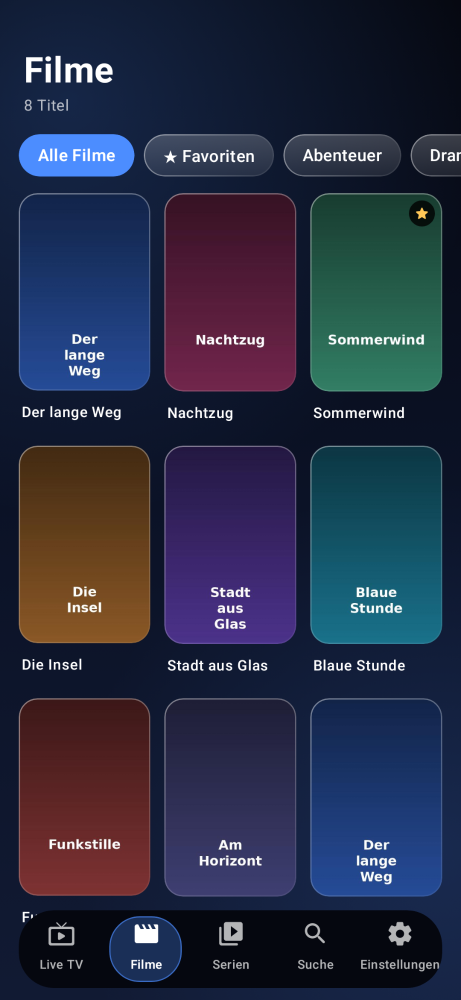
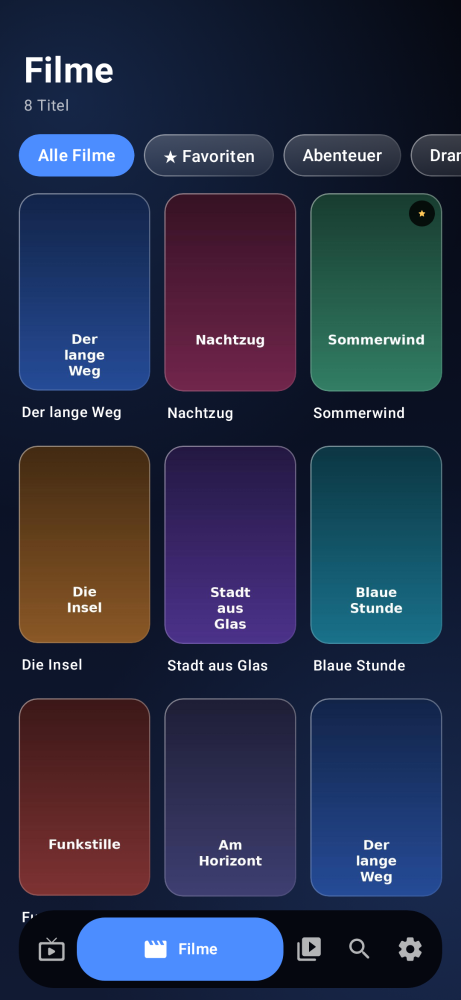
Version 1.0.34: Codeprüfung, kleine Korrekturen, aktuelle Hilfebilder

Changed region(s): [[0.0607, 0.899, 0.7289, 0.992], [0.7896, 0.899, 0.9414, 0.992], [0.7592, 0.93, 0.7896, 0.961]]

diff --git a/mobile/src/main/java/de/dgstudios/iptvstream/MobileApp.kt b/mobile/src/main/java/de/dgstudios/iptvstream/MobileApp.kt
@@ -56,6 +56,7 @@ import androidx.compose.runtime.LaunchedEffect
 import androidx.compose.runtime.getValue
 import androidx.compose.runtime.mutableStateOf
 import androidx.compose.runtime.remember
+import androidx.compose.runtime.rememberUpdatedState
 import androidx.compose.runtime.saveable.rememberSaveable
 import androidx.compose.runtime.setValue
 import androidx.compose.ui.Alignment
@@ -68,6 +69,7 @@ import androidx.compose.ui.input.nestedscroll.NestedScrollConnection
 import androidx.compose.ui.input.nestedscroll.NestedScrollSource
 import androidx.compose.ui.input.nestedscroll.nestedScroll
 import androidx.compose.ui.platform.LocalContext
+import androidx.compose.ui.platform.LocalDensity
 import androidx.compose.ui.text.font.FontWeight
 import androidx.compose.ui.text.style.TextOverflow
 import androidx.compose.ui.unit.Dp
@@ -341,13 +343,28 @@ internal fun BottomBar(selected: Tab, onSelect: (Tab) -> Unit) {
             .coerceAtMost(content - minIcon * (tabs.size - 1))
             .coerceAtLeast(112.dp)
         val iconSlot = (content - capsuleW) / (tabs.size - 1)
+        // Die Kapsel ist breiter als die übrigen Punkte. Der Wisch rechnet mit den
+        // echten Breiten, sonst landet der Finger auf dem Nachbarpunkt.
+        val density = LocalDensity.current
+        val targetRef = rememberUpdatedState(target)
+        val capsulePx = with(density) { capsuleW.toPx() }
+        val iconPx = with(density) { iconSlot.toPx() }
+        val edgePx = with(density) { 6.dp.toPx() }
         Box(
             Modifier
                 .fillMaxSize()
                 .clip(shape)
                 .background(s.backgroundColors[0], shape)
                 .pointerInput(tabs.size) {
-                    fun indexAt(x: Float) = (x / (size.width.toFloat() / tabs.size)).toInt().coerceIn(0, tabs.size - 1)
+                    fun indexAt(x: Float): Int {
+                        var edge = edgePx
+                        val current = targetRef.value
+                        for (i in tabs.indices) {
+                            edge += if (i == current) capsulePx else iconPx
+                            if (x < edge) return i
+                        }
+                        return tabs.lastIndex
+                    }
                     detectHorizontalDragGestures(
                         onDragStart = { pos ->
                             hover = indexAt(pos.x)

diff --git a/mobile/src/main/java/de/dgstudios/iptvstream/DetailScreens.kt b/mobile/src/main/java/de/dgstudios/iptvstream/DetailScreens.kt
@@ -76,7 +76,7 @@ fun GlassIconButton(icon: ImageVector, desc: String, onClick: () -> Unit, tint: 
 }
 
 @Composable
-fun PrimaryButton(text: String, icon: ImageVector? = null, onClick: () -> Unit, modifier: Modifier = Modifier) {
+fun PrimaryButton(text: String, modifier: Modifier = Modifier, icon: ImageVector? = null, onClick: () -> Unit) {
     val s = LocalAppStyle.current
     Row(
         modifier
@@ -195,7 +195,7 @@ fun MovieDetailScreen(onBack: () -> Unit, onPlay: () -> Unit) {
                 Spacer(Modifier.height(18.dp))
                 Row(horizontalArrangement = Arrangement.spacedBy(10.dp)) {
                     if (resume > 10_000) {
-                        PrimaryButton("Fortsetzen ab ${formatDuration(resume)}", Icons.Rounded.PlayArrow, {
+                        PrimaryButton("Fortsetzen ab ${formatDuration(resume)}", icon = Icons.Rounded.PlayArrow, onClick = {
                             vm.play(false)
                             onPlay()
                         })
@@ -204,7 +204,7 @@ fun MovieDetailScreen(onBack: () -> Unit, onPlay: () -> Unit) {
                             onPlay()
                         })
                     } else {
-                        PrimaryButton("Abspielen", Icons.Rounded.PlayArrow, {
+                        PrimaryButton("Abspielen", icon = Icons.Rounded.PlayArrow, onClick = {
                             vm.play(false)
                             onPlay()
                         })
@@ -305,10 +305,15 @@ fun SeriesDetailScreen(onBack: () -> Unit, onPlay: () -> Unit) {
                 if (next != null) {
                     item {
                         val label = "Weiter: S%02d E%02d".format(next.season, next.number)
-                        PrimaryButton(label, Icons.Rounded.PlayArrow, {
-                            vm.play(next)
-                            onPlay()
-                        }, Modifier.padding(vertical = 6.dp))
+                        PrimaryButton(
+                            label,
+                            modifier = Modifier.padding(vertical = 6.dp),
+                            icon = Icons.Rounded.PlayArrow,
+                            onClick = {
+                                vm.play(next)
+                                onPlay()
+                            },
+                        )
                     }
                 }
                 item {

diff --git a/core/src/main/java/de/dgstudios/iptvstream/core/ui/Common.kt b/core/src/main/java/de/dgstudios/iptvstream/core/ui/Common.kt
@@ -1,5 +1,6 @@
 package de.dgstudios.iptvstream.core.ui
 
+import android.annotation.SuppressLint
 import androidx.compose.animation.AnimatedVisibility
 import androidx.compose.animation.core.Animatable
 import androidx.compose.animation.core.FastOutSlowInEasing
@@ -108,13 +109,16 @@ fun formatRating(r: Double): String? = if (r > 0.0) "★ %.1f".format(Locale.GER
 
 // ---------------------------------------------------------------------- EPG
 
+// Fehlalarm dieser Lint-Version: value wird im Block unten gesetzt.
+@SuppressLint("ProduceStateDoesNotAssignValue")
 @Composable
 fun rememberNowNext(profileId: Long, epgKey: String?, tick: Long): State<NowNext?> {
     val repo = LocalContext.current.container.repo
     val initial = repo.peekNowNext(profileId, epgKey)
-    return produceState(initial, profileId, epgKey, tick / 30_000) {
+    val state = produceState(initial, profileId, epgKey, tick / 30_000) {
         value = repo.nowNext(profileId, epgKey)
     }
+    return state
 }
 
 /** Fortschrittsbalken gleitet, statt zu springen. Bei ausgeschalteten Animationen bleibt er sofort. */
@@ -257,6 +261,7 @@ private fun ShimmerBox(modifier: Modifier = Modifier) {
 
 // ---------------------------------------------------------------------- Video
 
+@OptIn(androidx.media3.common.util.UnstableApi::class)
 @Composable
 fun VideoSurface(
     player: Player,

diff --git a/core/src/main/java/de/dgstudios/iptvstream/core/player/PlayerController.kt b/core/src/main/java/de/dgstudios/iptvstream/core/player/PlayerController.kt
@@ -12,6 +12,7 @@ import androidx.media3.common.Player
 import androidx.media3.common.TrackSelectionOverride
 import androidx.media3.common.Tracks
 import androidx.media3.common.VideoSize
+import androidx.media3.common.util.UnstableApi
 import androidx.media3.datasource.DefaultDataSource
 import androidx.media3.datasource.HttpDataSource
 import androidx.media3.datasource.okhttp.OkHttpDataSource
@@ -84,6 +85,7 @@ data class PlayerState(
  * Passthrough ist standardmäßig aus: [DefaultAudioSink.Builder] mit Context ignoriert
  * [DefaultAudioSink.Builder.setAudioCapabilities] und würde AC3 sonst durchreichen.
  */
+@OptIn(UnstableApi::class)
 class AppRenderersFactory(context: Context, private val passthrough: Boolean) : DefaultRenderersFactory(context) {
     init {
         setEnableDecoderFallback(true)
@@ -139,6 +141,7 @@ class AppRenderersFactory(context: Context, private val passthrough: Boolean) : 
  * Kapselt ExoPlayer: schnelles Umschalten (ein Player, nur Medium wechseln), Audio-Fallback ohne
  * Endlosschleife, automatische Wiederverbindung, Fortschritt und Spurauswahl.
  */
+@OptIn(UnstableApi::class)
 class PlayerController(
     context: Context,
     private val settings: AppSettings,

diff --git a/tv/src/main/java/de/dgstudios/iptvstream/tv/TvSettings.kt b/tv/src/main/java/de/dgstudios/iptvstream/tv/TvSettings.kt
@@ -22,6 +22,7 @@ import androidx.compose.material3.Text
 import androidx.compose.runtime.Composable
 import androidx.compose.runtime.LaunchedEffect
 import androidx.compose.runtime.getValue
+import androidx.compose.runtime.mutableIntStateOf
 import androidx.compose.runtime.mutableStateOf
 import androidx.compose.runtime.remember
 import androidx.compose.runtime.saveable.rememberSaveable
@@ -57,7 +58,7 @@ fun TvSettingsScreen(mainVm: MainViewModel, settings: AppSettings, entry: EntryH
     val context = LocalContext.current
     val active by mainVm.active.collectAsStateWithLifecycle()
     val epg by mainVm.epg.collectAsStateWithLifecycle()
-    var sectionIndex by rememberSaveable { mutableStateOf(0) }
+    var sectionIndex by rememberSaveable { mutableIntStateOf(0) }
     val sections = SettingsSchema.sections
     val sectionReqs = remember { sections.map { FocusRequester() } }
 

diff --git a/core/src/main/java/de/dgstudios/iptvstream/core/player/StreamGain.kt b/core/src/main/java/de/dgstudios/iptvstream/core/player/StreamGain.kt
@@ -28,7 +28,11 @@ class StreamGain {
 
     fun release() {
         gone = true
-        enhancer?.release()
+        try {
+            enhancer?.release()
+        } catch (_: RuntimeException) {
+            // Ein bereits gestorbener System-Effekt wirft beim Freigeben.
+        }
         enhancer = null
         boundSession = 0
         sessionId = 0
@@ -43,7 +47,10 @@ class StreamGain {
             return
         }
         if (boundSession != sessionId) {
-            enhancer?.release()
+            try {
+                enhancer?.release()
+            } catch (_: RuntimeException) {
+            }
             enhancer = null
             boundSession = 0
             val created = try {

diff --git a/core/src/main/java/de/dgstudios/iptvstream/core/player/UhdPlayback.kt b/core/src/main/java/de/dgstudios/iptvstream/core/player/UhdPlayback.kt
@@ -8,6 +8,7 @@ import androidx.media3.exoplayer.mediacodec.MediaCodecInfo
 import androidx.media3.exoplayer.mediacodec.MediaCodecSelector
 import androidx.media3.exoplayer.video.MediaCodecVideoRenderer
 import androidx.media3.exoplayer.video.VideoRendererEventListener
+import androidx.media3.common.util.UnstableApi
 import kotlin.math.max
 import kotlin.math.min
 
@@ -64,6 +65,7 @@ object UhdPlayback {
  * schafft die Bilder dann nicht. Der Eingabepuffer von Media3 reicht für große
  * HEVC-Einzelbilder nicht immer.
  */
+@OptIn(UnstableApi::class)
 class UhdVideoRenderer(
     context: Context,
     codecAdapterFactory: MediaCodecAdapter.Factory,

diff --git a/core/src/main/java/de/dgstudios/iptvstream/core/update/UpdateChecker.kt b/core/src/main/java/de/dgstudios/iptvstream/core/update/UpdateChecker.kt
@@ -168,6 +168,8 @@ class UpdateChecker(
         return intent
     }
 
+    // Nur aufgerufen, wenn canInstall() false liefert, also erst ab Android 8. Dort existiert die Konstante.
+    @android.annotation.SuppressLint("InlinedApi")
     fun permissionIntent(): Intent = Intent(
         android.provider.Settings.ACTION_MANAGE_UNKNOWN_APP_SOURCES,
         Uri.parse("package:${appContext.packageName}"),

diff --git a/core/src/main/java/de/dgstudios/iptvstream/core/player/StreamSignal.kt b/core/src/main/java/de/dgstudios/iptvstream/core/player/StreamSignal.kt
@@ -1,3 +1,5 @@
+@file:OptIn(androidx.media3.common.util.UnstableApi::class)
+
 package de.dgstudios.iptvstream.core.player
 
 import androidx.media3.common.Format

diff --git a/README.md b/README.md
@@ -21,7 +21,7 @@ Handy-Oberfläche im Glas-Look (Hintergrund „Mitternacht“, Akzent Blau) mit 
 | Smartphone / Tablet | [iptvstream-mobile.apk](https://github.com/daniel96865-a11y/iptvstream/releases/latest/download/iptvstream-mobile.apk) |
 | Android TV / Fire TV | [iptvstream-tv.apk](https://github.com/daniel96865-a11y/iptvstream/releases/latest/download/iptvstream-tv.apk) |
 
-Aktuelle Version: [Release v1.0.33](https://github.com/daniel96865-a11y/iptvstream/releases/tag/v1.0.33)
+Aktuelle Version: [Release v1.0.34](https://github.com/daniel96865-a11y/iptvstream/releases/tag/v1.0.34)
 
 Installation außerhalb des Play Store: in den Android-Einstellungen „Unbekannte Apps“ für den Browser bzw. Dateimanager erlauben, die APK öffnen und installieren. Auf Fire TV die APK per „Downloader“ oder `adb install` aufspielen.
 
